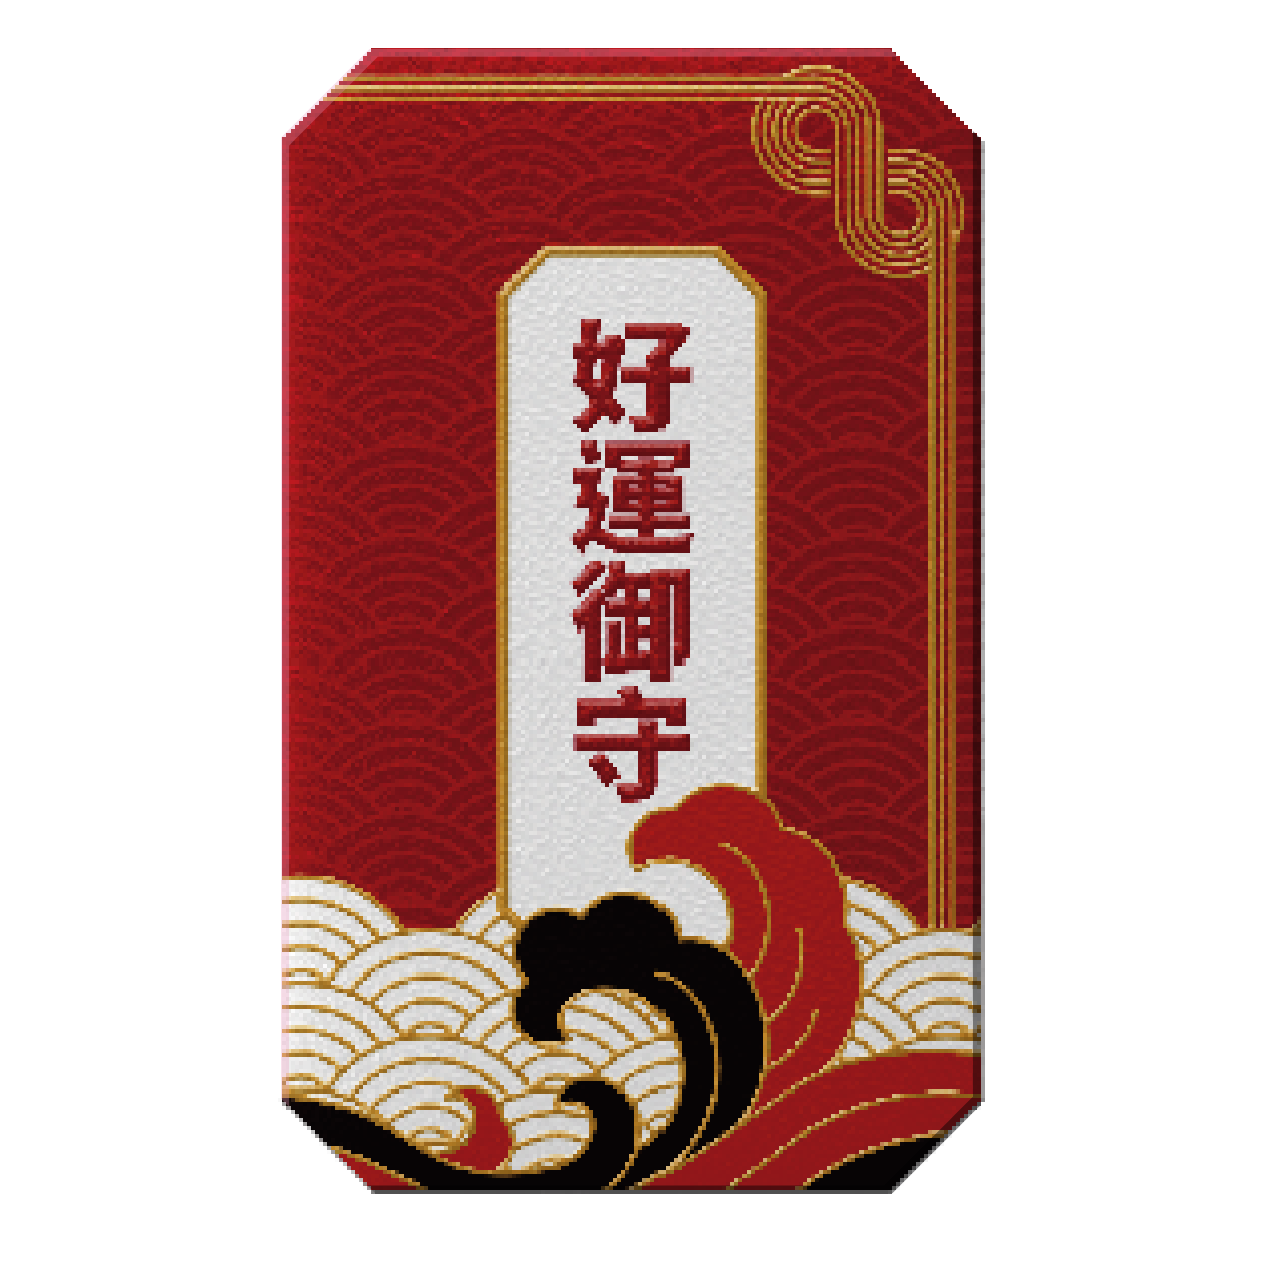
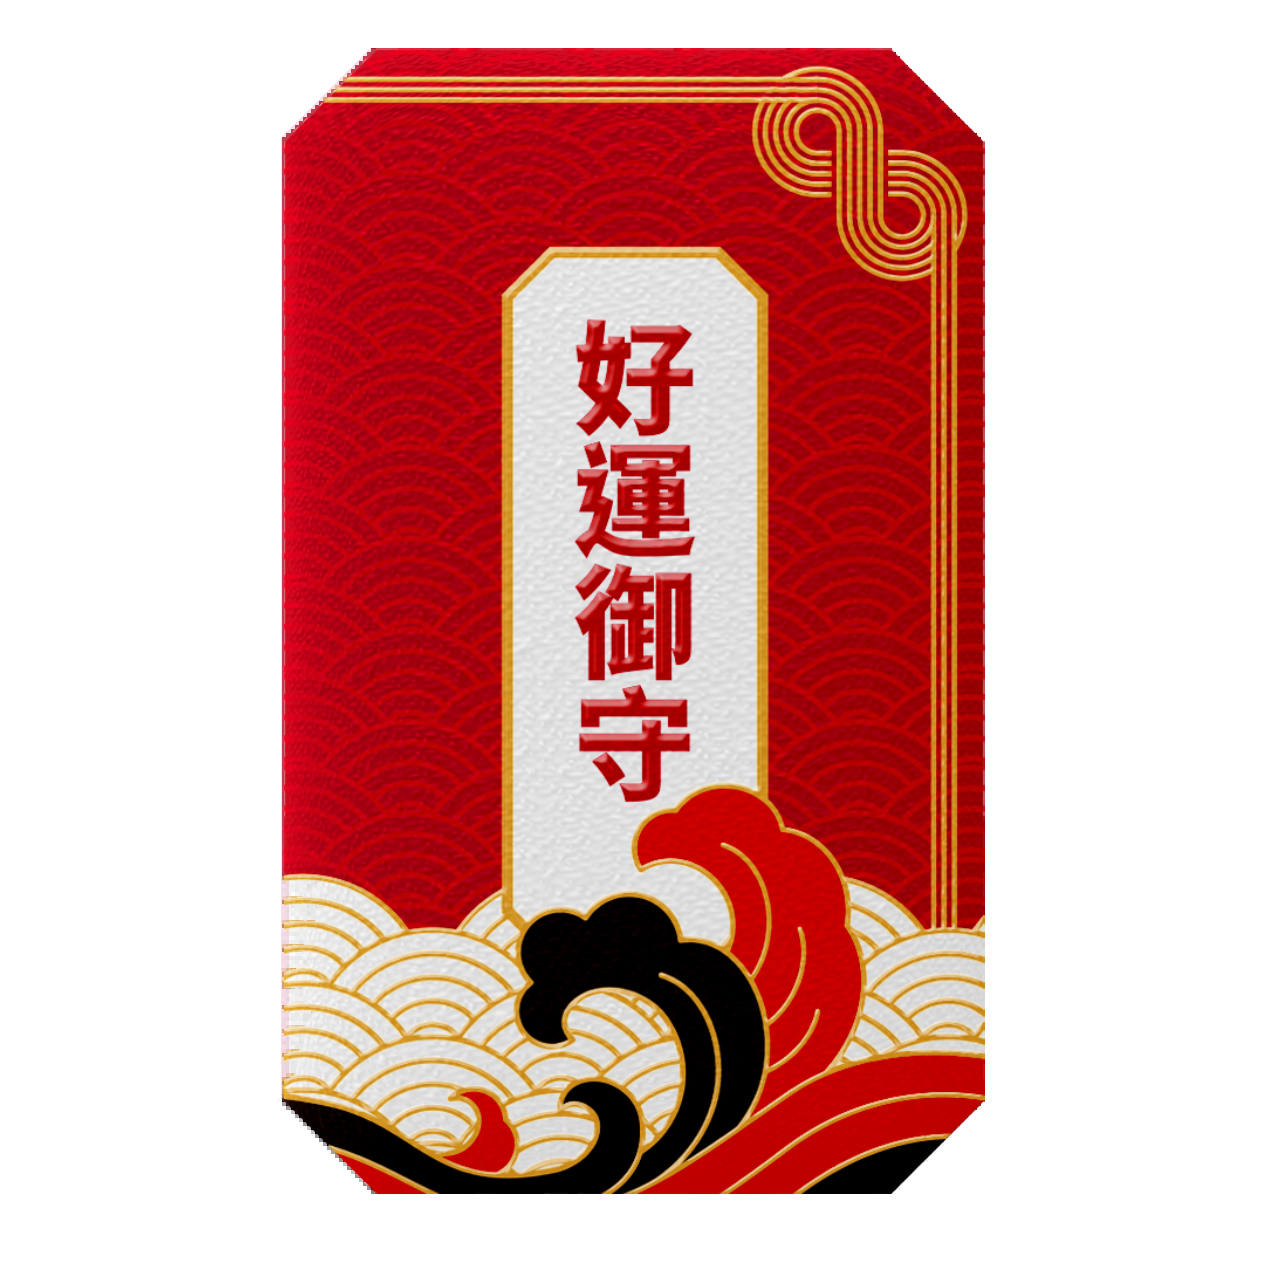
[modify] change charm

diff --git a/docs/sw.js b/docs/sw.js
@@ -1,1 +1,1 @@
-if(!self.define){let e,i={};const s=(s,a)=>(s=new URL(s+".js",a).href,i[s]||new Promise((i=>{if("document"in self){const e=document.createElement("script");e.src=s,e.onload=i,document.head.appendChild(e)}else e=s,importScripts(s),i()})).then((()=>{let e=i[s];if(!e)throw new Error(`Module ${s} didn’t register its module`);return e})));self.define=(a,n)=>{const r=e||("document"in self?document.currentScript.src:"")||location.href;if(i[r])return;let c={};const d=e=>s(e,r),o={module:{uri:r},exports:c,require:d};i[r]=Promise.all(a.map((e=>o[e]||d(e)))).then((e=>(n(...e),c)))}}define(["./workbox-fa446783"],(function(e){"use strict";self.skipWaiting(),e.clientsClaim(),e.precacheAndRoute([{url:"assets/index-b5266563.css",revision:null},{url:"assets/index-c2d608b2.js",revision:null},{url:"index.html",revision:"cf85a6e248a8f47b95e5b20a1e31205d"},{url:"registerSW.js",revision:"1872c500de691dce40960bb85481de07"},{url:"321.mp3",revision:"3bd591d610049c259f3768fd35f8ba0f"},{url:"audio-speaker-off.png",revision:"e46a88ab8493f86764cbe64dd250adf5"},{url:"audio-speaker-on.png",revision:"0f68480c86cd9569a7bd660ea0b1abb1"},{url:"bg.mp3",revision:"1939fe9c9d71e53d960f581d068bd9ed"},{url:"click.mp3",revision:"0549e1376c71663510db6425f2b10d4e"},{url:"pwa-logo.png",revision:"ecc5baf4ff30ede170fc950900658b74"},{url:"assets/img/12_14_finished.png",revision:"a870acbf48cc8d64d949abd03ab92052"},{url:"assets/img/ball_light.png",revision:"11ffa497bd4e6f5ba8789b584b464348"},{url:"assets/img/black_bg.png",revision:"2c019e9e6bccf9f989349f8b4902df4d"},{url:"assets/img/charm.png",revision:"cd1cf0f1c06e19cad65f98053410313e"},{url:"assets/img/charm_bg.png",revision:"8cbacc76583d1c30f68951fdd04853a2"},{url:"assets/img/charm_shadow.png",revision:"86b80104720873d004d1647e19a723f3"},{url:"assets/img/dragon_right_big.png",revision:"ab83fd69d5b4f3120fda3eeabe7624b5"},{url:"assets/img/dragon_right_small.png",revision:"684a7760bf27b17b2f04fa6dcb6ebe5e"},{url:"assets/img/final_bg.png",revision:"407d758e0a49c25dd1c33995f34a4c5e"},{url:"assets/img/game_ball.png",revision:"deae6db0f7233ab3299a7c1adbca2372"},{url:"assets/img/game_ball_cloud.png",revision:"5c66e37a987089a9a03389eccf4bf39a"},{url:"assets/img/game_ball_infinite.png",revision:"eb7bb876bad1c0e7d6a8a3e12f31939e"},{url:"assets/img/game_ball_shadow.png",revision:"f14fabcca4dcf82a15e244795d04088c"},{url:"assets/img/game_ball_star.png",revision:"adc6fa1f181f27739f247749d7174809"},{url:"assets/img/game_ball_wind.png",revision:"cc1724b3a3a0015b55884a11a5a0156b"},{url:"assets/img/game_bg.png",revision:"266fa85d2f8a6e8577a09583253ad348"},{url:"assets/img/game_count_down_1.png",revision:"f859b94ffa931eb4905349206055dc31"},{url:"assets/img/game_count_down_2.png",revision:"4fd6d3c6a62e7bfd9ae5c13058d5c640"},{url:"assets/img/game_count_down_3.png",revision:"f5cea6cd0ee93bd623e5185a77307eda"},{url:"assets/img/game_frame.png",revision:"d4c0c7479a3e64ad69362b318e416d94"},{url:"assets/img/game_header.png",revision:"28bfb3ca5717aa08a1f29a76af22f076"},{url:"assets/img/game_intro_bg.png",revision:"1cc102c7f1f418e3e3d1d65a71c6ade2"},{url:"assets/img/ground.png",revision:"3d676879acc881ff0c9f6a341cfcd5a8"},{url:"assets/img/index_title.png",revision:"b46a6cd97f431cc5642c1f8f71c2bd1a"},{url:"assets/img/intro_2_main.png",revision:"2b25254eb89d6118aefe39fd1d9f570f"},{url:"assets/img/intro_2_title.png",revision:"e5a29516eb7efd52bb9f2b3145807ed2"},{url:"assets/img/left_down_cloud.png",revision:"ea9a97fd0861b55bfc00664f990103a4"},{url:"assets/img/logo.png",revision:"5ea8c0e167ad97e21d6dd32295f53a2a"},{url:"assets/img/logo_left_top.png",revision:"5105f4b42da1e5adb9f9ba970a388788"},{url:"assets/img/main_product_full.png",revision:"f9c457d9e6534de2df7f7a8f104045ba"},{url:"assets/img/right_belt_slogan.png",revision:"2e2d8f48c4ab5a5ae8df706fb001f499"},{url:"assets/img/right_down_belt_without_slogan.png",revision:"162d7093e3735f6eb114ea09f10d1169"},{url:"assets/img/right_top_play_button.png",revision:"1d8f6b2392822e67f1ed8721a7282989"},{url:"assets/img/side_dragon.png",revision:"0421d6817b5797d9d32c1ba28d18c05d"},{url:"assets/img/wave_ground.png",revision:"2e6c8f7ec31b53c681ae5e4fb721f08f"},{url:"assets/img/woman.png",revision:"7a0e3bb88a54e81e1091a5b846b8bf45"},{url:"assets/img/yellow_bg.png",revision:"9aee5a12e6b5cdd2dacf847ac39b736f"},{url:"img/icons/android-chrome-192x192.png",revision:"3ef4a95391ff2bfd5f442ea89292b3fa"},{url:"img/icons/android-chrome-512x512.png",revision:"4fd10861636b509a53d091e1c6cd8f64"},{url:"img/icons/android-chrome-maskable-192x192.png",revision:"3ef4a95391ff2bfd5f442ea89292b3fa"},{url:"img/icons/android-chrome-maskable-512x512.png",revision:"4fd10861636b509a53d091e1c6cd8f64"},{url:"img/icons/apple-touch-icon-120x120.png",revision:"c24de0bfa43e42fd8568d1b38262c4c3"},{url:"img/icons/apple-touch-icon-152x152.png",revision:"de8e6c5c1e047c79711200a9529be00e"},{url:"img/icons/apple-touch-icon-180x180.png",revision:"f66b5015d880335cb607d474025316e8"},{url:"img/icons/apple-touch-icon-60x60.png",revision:"91035985e360cd3b9e443066bccdc53a"},{url:"img/icons/apple-touch-icon-76x76.png",revision:"c14d8293625bbec500e0e9dec5848336"},{url:"img/icons/apple-touch-icon.png",revision:"f66b5015d880335cb607d474025316e8"},{url:"img/icons/favicon-16x16.png",revision:"49610a9d0e3026ebfaec1aa32f22b67f"},{url:"img/icons/favicon-32x32.png",revision:"e3c7c3355821030a05ac1e54e105e973"},{url:"img/icons/msapplication-icon-144x144.png",revision:"4db12ddb2969ae559fe8cc63810e7747"},{url:"img/icons/mstile-150x150.png",revision:"8bf70c634505b233c8b293cf3a749278"},{url:"img/icons/safari-pinned-tab.svg",revision:"86b564b18ea6c7e170fa6cb87ca03bcf"},{url:"manifest.webmanifest",revision:"57439dbce5a2c575d7bbf99676e164bf"}],{}),e.cleanupOutdatedCaches(),e.registerRoute(new e.NavigationRoute(e.createHandlerBoundToURL("index.html")))}));
+if(!self.define){let e,i={};const a=(a,s)=>(a=new URL(a+".js",s).href,i[a]||new Promise((i=>{if("document"in self){const e=document.createElement("script");e.src=a,e.onload=i,document.head.appendChild(e)}else e=a,importScripts(a),i()})).then((()=>{let e=i[a];if(!e)throw new Error(`Module ${a} didn’t register its module`);return e})));self.define=(s,n)=>{const r=e||("document"in self?document.currentScript.src:"")||location.href;if(i[r])return;let c={};const d=e=>a(e,r),o={module:{uri:r},exports:c,require:d};i[r]=Promise.all(s.map((e=>o[e]||d(e)))).then((e=>(n(...e),c)))}}define(["./workbox-fa446783"],(function(e){"use strict";self.skipWaiting(),e.clientsClaim(),e.precacheAndRoute([{url:"assets/index-b5266563.css",revision:null},{url:"assets/index-c2d608b2.js",revision:null},{url:"index.html",revision:"cf85a6e248a8f47b95e5b20a1e31205d"},{url:"registerSW.js",revision:"1872c500de691dce40960bb85481de07"},{url:"321.mp3",revision:"3bd591d610049c259f3768fd35f8ba0f"},{url:"audio-speaker-off.png",revision:"e46a88ab8493f86764cbe64dd250adf5"},{url:"audio-speaker-on.png",revision:"0f68480c86cd9569a7bd660ea0b1abb1"},{url:"bg.mp3",revision:"1939fe9c9d71e53d960f581d068bd9ed"},{url:"click.mp3",revision:"0549e1376c71663510db6425f2b10d4e"},{url:"pwa-logo.png",revision:"ecc5baf4ff30ede170fc950900658b74"},{url:"assets/img/12_14_finished.png",revision:"a870acbf48cc8d64d949abd03ab92052"},{url:"assets/img/ball_light.png",revision:"11ffa497bd4e6f5ba8789b584b464348"},{url:"assets/img/black_bg.png",revision:"2c019e9e6bccf9f989349f8b4902df4d"},{url:"assets/img/charm.png",revision:"7a59770e7caaa60af67a447a67f842f1"},{url:"assets/img/charm_bg.png",revision:"8cbacc76583d1c30f68951fdd04853a2"},{url:"assets/img/charm_shadow.png",revision:"86b80104720873d004d1647e19a723f3"},{url:"assets/img/dragon_right_big.png",revision:"ab83fd69d5b4f3120fda3eeabe7624b5"},{url:"assets/img/dragon_right_small.png",revision:"684a7760bf27b17b2f04fa6dcb6ebe5e"},{url:"assets/img/final_bg.png",revision:"407d758e0a49c25dd1c33995f34a4c5e"},{url:"assets/img/game_ball.png",revision:"deae6db0f7233ab3299a7c1adbca2372"},{url:"assets/img/game_ball_cloud.png",revision:"5c66e37a987089a9a03389eccf4bf39a"},{url:"assets/img/game_ball_infinite.png",revision:"eb7bb876bad1c0e7d6a8a3e12f31939e"},{url:"assets/img/game_ball_shadow.png",revision:"f14fabcca4dcf82a15e244795d04088c"},{url:"assets/img/game_ball_star.png",revision:"adc6fa1f181f27739f247749d7174809"},{url:"assets/img/game_ball_wind.png",revision:"cc1724b3a3a0015b55884a11a5a0156b"},{url:"assets/img/game_bg.png",revision:"266fa85d2f8a6e8577a09583253ad348"},{url:"assets/img/game_count_down_1.png",revision:"f859b94ffa931eb4905349206055dc31"},{url:"assets/img/game_count_down_2.png",revision:"4fd6d3c6a62e7bfd9ae5c13058d5c640"},{url:"assets/img/game_count_down_3.png",revision:"f5cea6cd0ee93bd623e5185a77307eda"},{url:"assets/img/game_frame.png",revision:"d4c0c7479a3e64ad69362b318e416d94"},{url:"assets/img/game_header.png",revision:"28bfb3ca5717aa08a1f29a76af22f076"},{url:"assets/img/game_intro_bg.png",revision:"1cc102c7f1f418e3e3d1d65a71c6ade2"},{url:"assets/img/ground.png",revision:"3d676879acc881ff0c9f6a341cfcd5a8"},{url:"assets/img/index_title.png",revision:"b46a6cd97f431cc5642c1f8f71c2bd1a"},{url:"assets/img/intro_2_main.png",revision:"2b25254eb89d6118aefe39fd1d9f570f"},{url:"assets/img/intro_2_title.png",revision:"e5a29516eb7efd52bb9f2b3145807ed2"},{url:"assets/img/left_down_cloud.png",revision:"ea9a97fd0861b55bfc00664f990103a4"},{url:"assets/img/logo.png",revision:"5ea8c0e167ad97e21d6dd32295f53a2a"},{url:"assets/img/logo_left_top.png",revision:"5105f4b42da1e5adb9f9ba970a388788"},{url:"assets/img/main_product_full.png",revision:"f9c457d9e6534de2df7f7a8f104045ba"},{url:"assets/img/right_belt_slogan.png",revision:"2e2d8f48c4ab5a5ae8df706fb001f499"},{url:"assets/img/right_down_belt_without_slogan.png",revision:"162d7093e3735f6eb114ea09f10d1169"},{url:"assets/img/right_top_play_button.png",revision:"1d8f6b2392822e67f1ed8721a7282989"},{url:"assets/img/side_dragon.png",revision:"0421d6817b5797d9d32c1ba28d18c05d"},{url:"assets/img/wave_ground.png",revision:"2e6c8f7ec31b53c681ae5e4fb721f08f"},{url:"assets/img/woman.png",revision:"7a0e3bb88a54e81e1091a5b846b8bf45"},{url:"assets/img/yellow_bg.png",revision:"9aee5a12e6b5cdd2dacf847ac39b736f"},{url:"img/icons/android-chrome-192x192.png",revision:"3ef4a95391ff2bfd5f442ea89292b3fa"},{url:"img/icons/android-chrome-512x512.png",revision:"4fd10861636b509a53d091e1c6cd8f64"},{url:"img/icons/android-chrome-maskable-192x192.png",revision:"3ef4a95391ff2bfd5f442ea89292b3fa"},{url:"img/icons/android-chrome-maskable-512x512.png",revision:"4fd10861636b509a53d091e1c6cd8f64"},{url:"img/icons/apple-touch-icon-120x120.png",revision:"c24de0bfa43e42fd8568d1b38262c4c3"},{url:"img/icons/apple-touch-icon-152x152.png",revision:"de8e6c5c1e047c79711200a9529be00e"},{url:"img/icons/apple-touch-icon-180x180.png",revision:"f66b5015d880335cb607d474025316e8"},{url:"img/icons/apple-touch-icon-60x60.png",revision:"91035985e360cd3b9e443066bccdc53a"},{url:"img/icons/apple-touch-icon-76x76.png",revision:"c14d8293625bbec500e0e9dec5848336"},{url:"img/icons/apple-touch-icon.png",revision:"f66b5015d880335cb607d474025316e8"},{url:"img/icons/favicon-16x16.png",revision:"49610a9d0e3026ebfaec1aa32f22b67f"},{url:"img/icons/favicon-32x32.png",revision:"e3c7c3355821030a05ac1e54e105e973"},{url:"img/icons/msapplication-icon-144x144.png",revision:"4db12ddb2969ae559fe8cc63810e7747"},{url:"img/icons/mstile-150x150.png",revision:"8bf70c634505b233c8b293cf3a749278"},{url:"img/icons/safari-pinned-tab.svg",revision:"86b564b18ea6c7e170fa6cb87ca03bcf"},{url:"manifest.webmanifest",revision:"57439dbce5a2c575d7bbf99676e164bf"}],{}),e.cleanupOutdatedCaches(),e.registerRoute(new e.NavigationRoute(e.createHandlerBoundToURL("index.html")))}));
